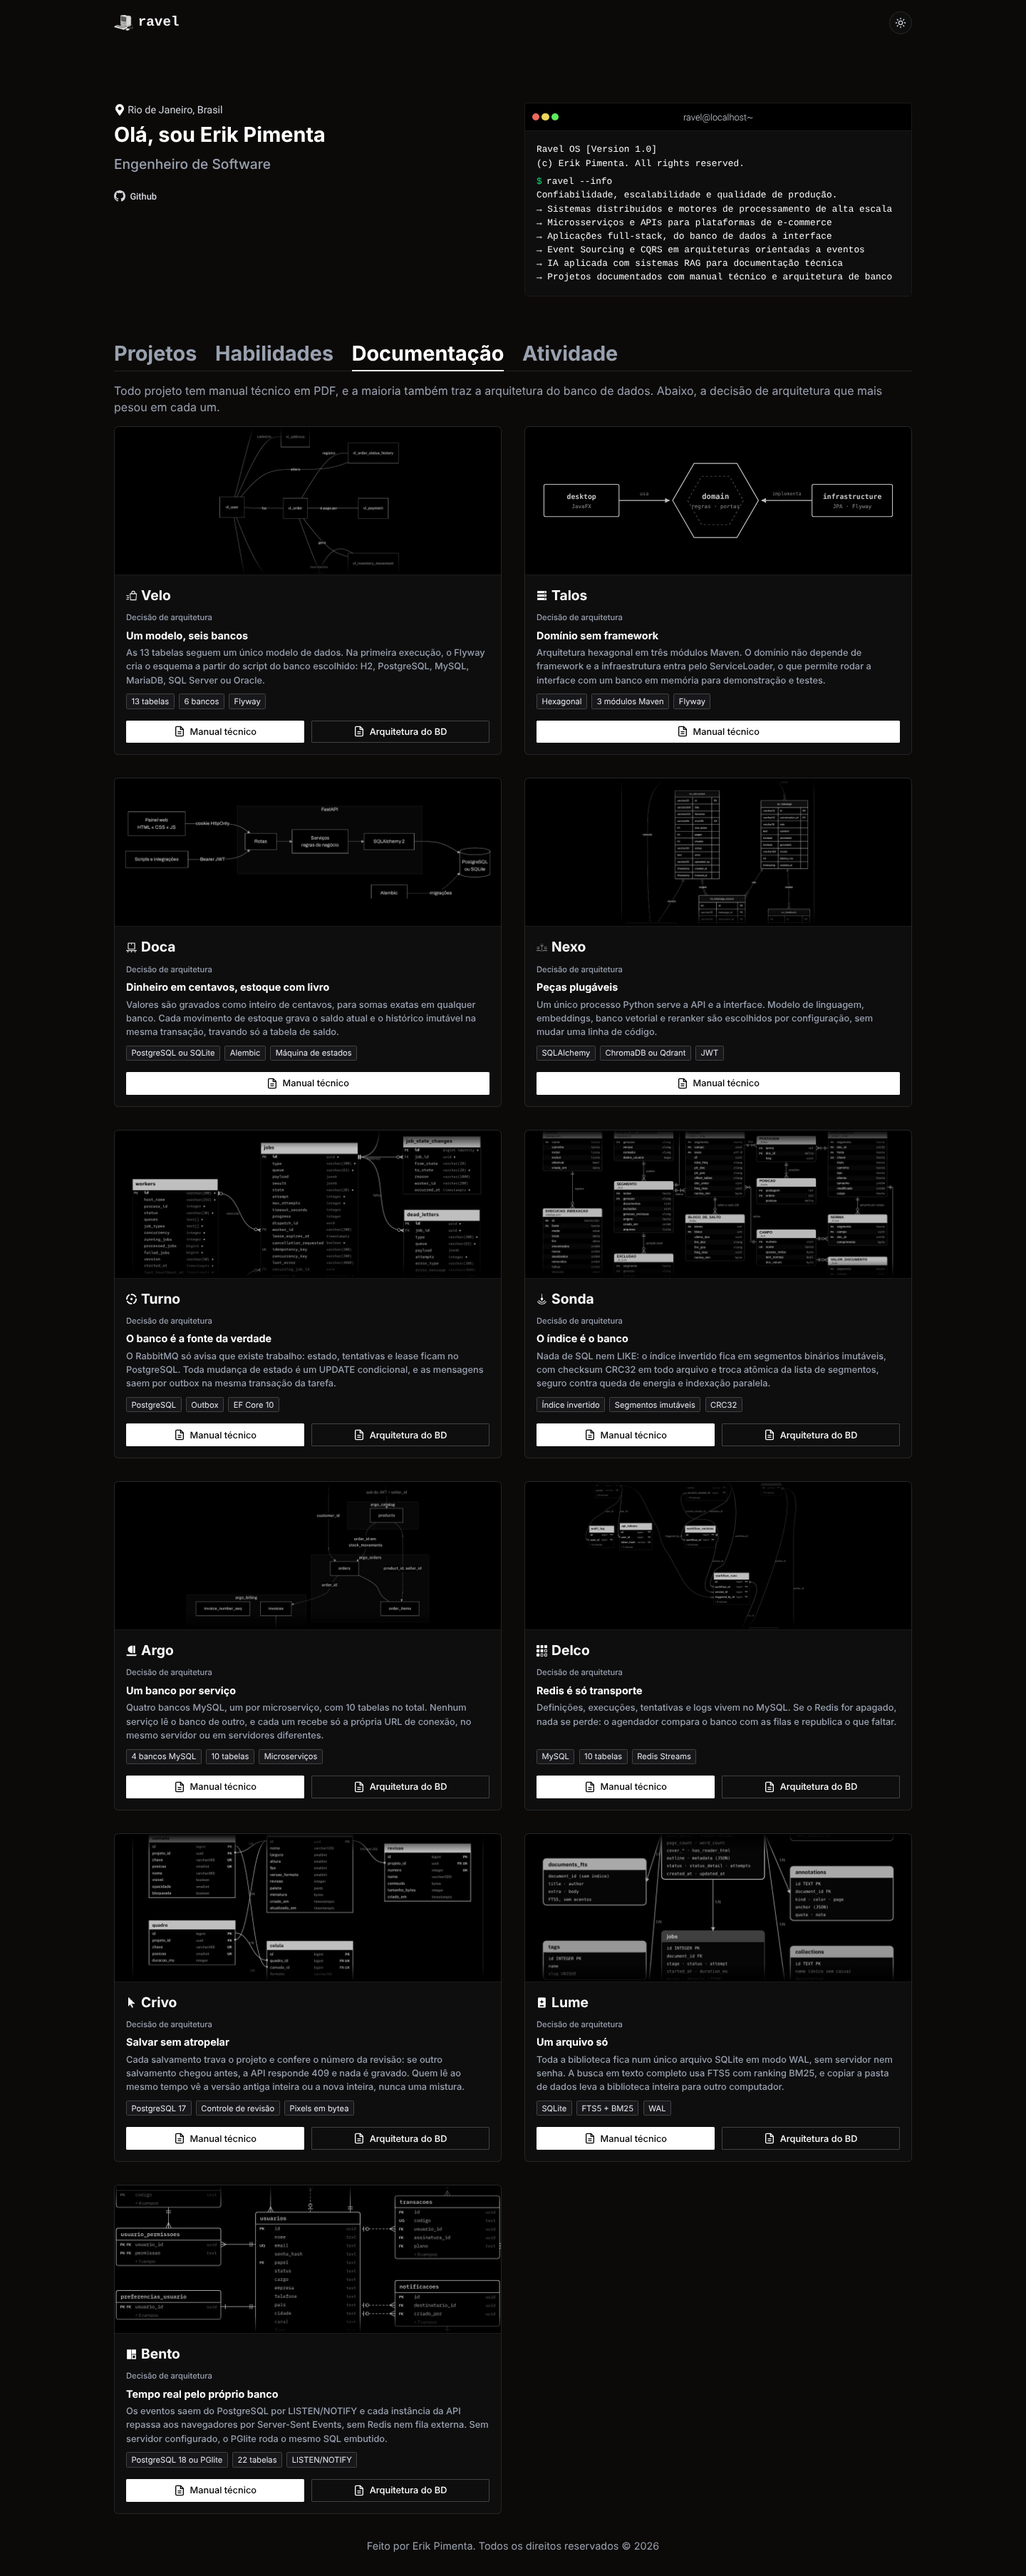
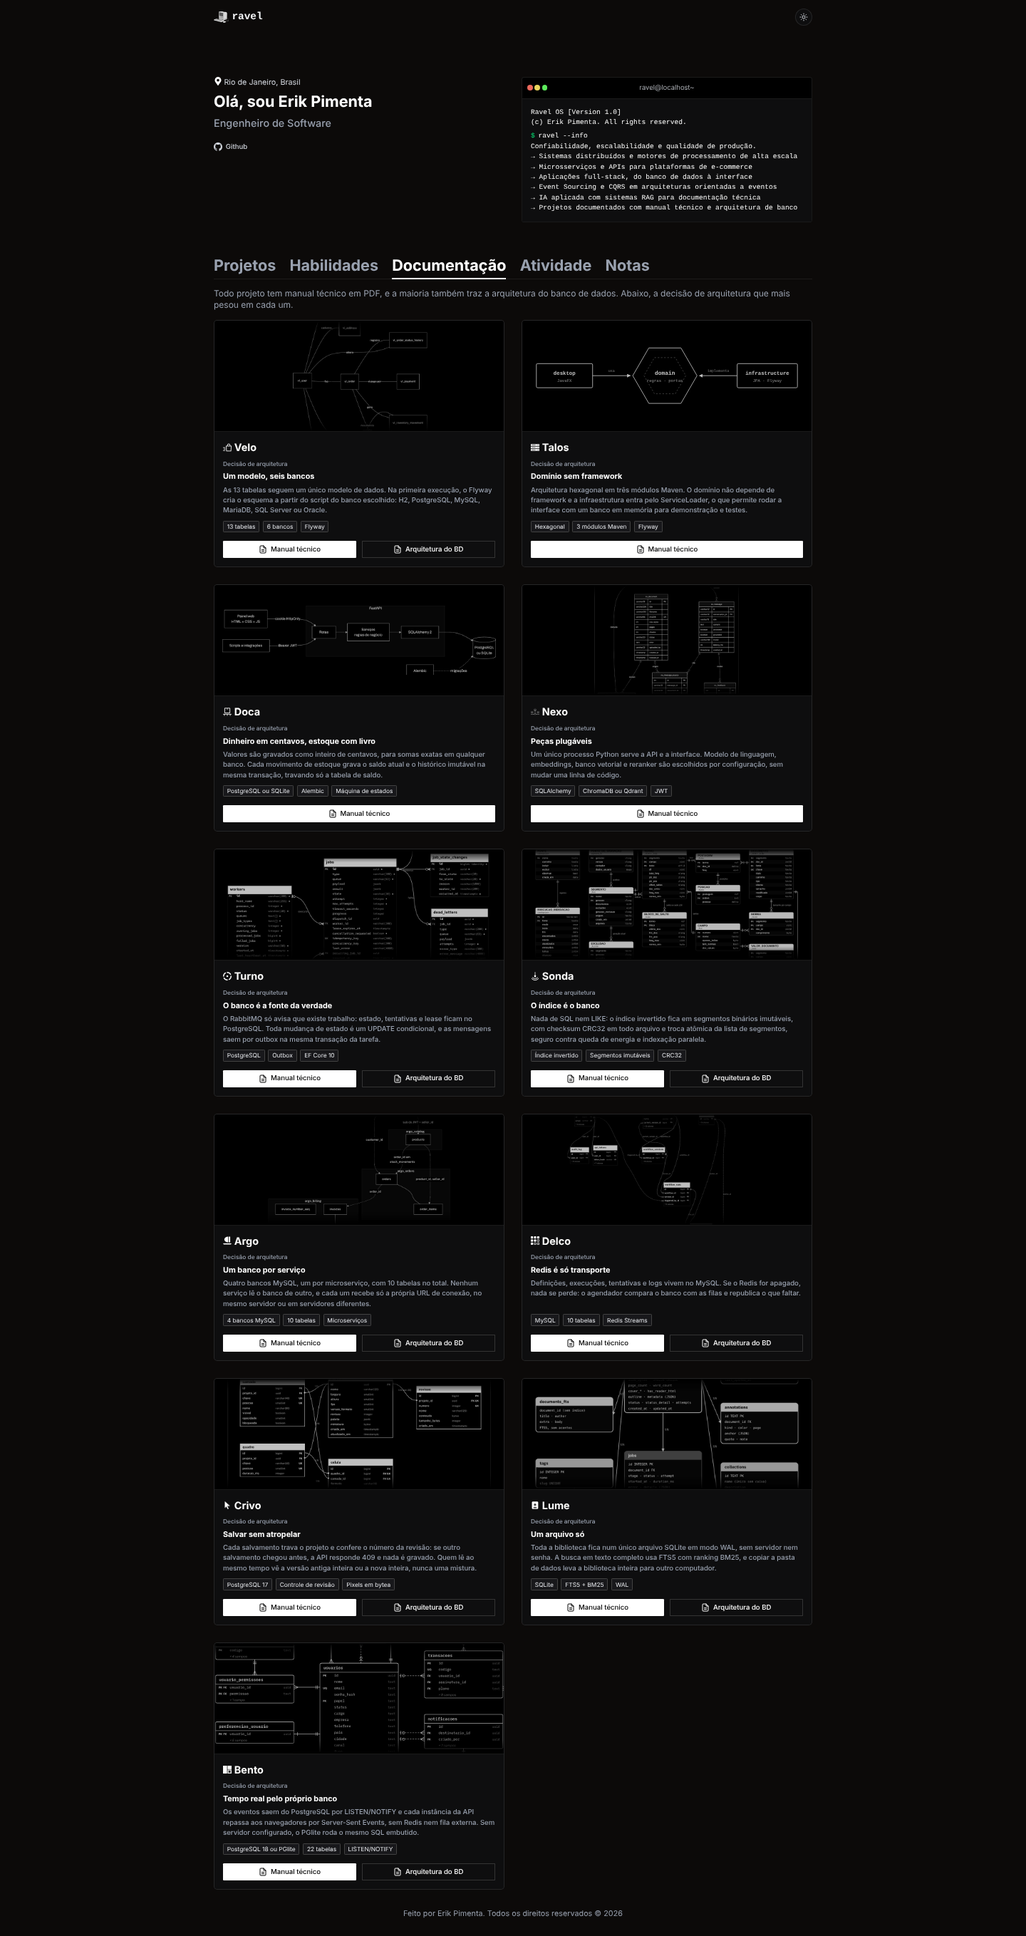
Descrições e ícones dos projetos atualizados

diff --git a/js/projetos.js b/js/projetos.js
@@ -2,77 +2,77 @@ const PROJETOS = [
 	{
 		titulo: "Velo",
 		icone: "assets/projetos/velo.png?v=3",
-		descricao: "Loja virtual completa com catálogo, carrinho, cupons, pedidos e pagamentos por cartão, PIX e boleto (simulados ou Stripe), além de painel administrativo e gestão de usuários. Funciona com H2, PostgreSQL, MySQL, MariaDB, SQL Server e Oracle.",
+		descricao: "Loja virtual completa e de código aberto: catálogo, carrinho com cupons, checkout com cartão em até 10 vezes, PIX ou boleto (simulados ou Stripe), acompanhamento do pedido e painel com faturamento, estoque e três perfis de acesso. Um único esquema para H2, PostgreSQL, MySQL, MariaDB, SQL Server e Oracle.",
 		link: "https://github.com/ravelroot/Payment-and-Checkout-System",
 		tecnologias: ["Java", "Spring Boot", "React", "Typescript", "Flyway", "PostgreSQL", "Stripe"]
 	},
 	{
 		titulo: "Talos",
-		icone: "assets/projetos/talos.png",
-		descricao: "Sistema desktop de ITSM, helpdesk e inventário de ativos inspirado no GLPI: chamados, problemas, mudanças, SLA, regras de negócio, Kanban e Gantt. Arquitetura hexagonal, banco de dados à escolha e instalador para Windows.",
+		icone: "assets/projetos/talos.png?v=2",
+		descricao: "Aplicativo desktop para Windows de gestão de serviços de TI, central de suporte e inventário de ativos, inspirado no GLPI: chamados com SLA, problemas e mudanças (ITIL), Kanban, Gantt e base de conhecimento. Instalador próprio e banco à escolha, do H2 local ao PostgreSQL ou Oracle.",
 		link: "https://github.com/ravelroot/Information-Technology-Service-Management",
 		tecnologias: ["Java", "Spring Boot", "JavaFX", "JPA", "Flyway", "PostgreSQL"]
 	},
 	{
 		titulo: "Doca",
 		icone: "assets/projetos/doca.png",
-		descricao: "Gestão de pedidos, compras e estoque multi-depósito com reserva transacional sem venda dupla, custo médio ponderado, curva ABC, giro e sugestão de reposição. Painel web com perfis de acesso, auditoria e integração contínua.",
+		descricao: "Pedidos de venda, compras e estoque multi-depósito com API REST e painel web com login. O estoque é reservado na confirmação e nenhum pedido vende acima do saldo, mesmo com acessos simultâneos. Custo médio ponderado, curva ABC, giro, sugestão de compra, quatro perfis de acesso e auditoria.",
 		link: "https://github.com/ravelroot/Order-and-Inventory-System",
-		tecnologias: ["Python", "FastAPI", "SQLAlchemy", "PostgreSQL", "Docker", "Javascript"]
+		tecnologias: ["Python", "FastAPI", "SQLAlchemy", "Alembic", "PostgreSQL", "Docker", "Javascript"]
 	},
 	{
 		titulo: "Nexo",
 		icone: "assets/projetos/nexo.png",
-		descricao: "Chatbot RAG para manuais técnicos e livros em PDF que responde somente com base nos documentos enviados, citando trecho e página, com reranking e cortes de relevância contra alucinações.",
+		descricao: "Chatbot RAG que responde dúvidas sobre manuais técnicos e livros em PDF usando só o conteúdo enviado. Cada resposta cita o trecho e a página e, se a informação não estiver nos documentos, ele diz que não encontrou, com reranking e dois cortes de relevância contra alucinações.",
 		link: "https://github.com/ravelroot/Retrieval-Augmented-QA-System",
 		tecnologias: ["Python", "FastAPI", "LlamaIndex", "React", "Typescript", "ChromaDB", "Qdrant"]
 	},
 	{
 		titulo: "Turno",
 		icone: "assets/projetos/turno.png",
-		descricao: "Motor de agendamento e processamento de tarefas distribuídas no estilo Hangfire: vários workers dividem a mesma fila com execução única garantida por Redlock e lease no PostgreSQL, retentativas com Polly, fila de erros, agendamento cron e painel em tempo real.",
+		descricao: "Motor de tarefas distribuídas no estilo Hangfire: vários workers idênticos dividem a mesma fila e cada tarefa roda uma única vez por tentativa, mesmo com mensagens duplicadas ou workers que caem. Redlock e lease no PostgreSQL, Polly, fila de erros, cron e painel em tempo real.",
 		link: "https://github.com/ravelroot/Distributed-Task-Processing-Engine",
 		tecnologias: ["C#", ".NET 10", "MassTransit", "RabbitMQ", "Redis", "PostgreSQL", "Blazor", "Docker"]
 	},
 	{
 		titulo: "Sonda",
 		icone: "assets/projetos/sonda.png",
-		descricao: "Motor de busca de texto completo escrito do zero, no estilo Lucene: indexação paralela, stemming em português e inglês, índice invertido binário em disco e ranking por BM25 ou TF-IDF, com painel web, API REST e linha de comando.",
+		descricao: "Motor de busca de texto completo escrito do zero em C#, no estilo Lucene e Elasticsearch, que indexa pastas inteiras de .txt, .md e .html em paralelo: stemming em português e inglês, índice invertido binário em disco e ranking por BM25 ou TF-IDF, sem banco SQL. Painel web, API REST e linha de comando.",
 		link: "https://github.com/ravelroot/Inverted-Index-Search-Engine",
 		tecnologias: ["C#", ".NET 10", "ASP.NET Core", "TPL", "Brotli", "xUnit", "Docker"]
 	},
 	{
 		titulo: "Argo",
 		icone: "assets/projetos/argo.png?v=2",
-		descricao: "Plataforma de microserviços para vendas com vários vendedores, feita em Django: estoque atualizado em tempo real por Redis e Server-Sent Events, checkout assíncrono que confirma o pedido por fila no Celery e notas fiscais emitidas por um serviço em Java, tudo atrás de um gateway Nginx.",
+		descricao: "Plataforma de microserviços para vendas em Django: vários vendedores cadastram produtos, o estoque muda em tempo real por Redis e Server-Sent Events e cada pedido é confirmado por uma fila no Celery, sem travar a compra. As notas fiscais saem de um serviço em Java, tudo atrás de um gateway Nginx.",
 		link: "https://github.com/ravelroot/E-commerce-Microservices-Platform",
 		tecnologias: ["Python", "Django", "Celery", "Redis", "MySQL", "Java", "Spring Boot", "Docker"]
 	},
 	{
 		titulo: "Delco",
 		icone: "assets/projetos/delco.png",
-		descricao: "Motor de orquestração de workflows no estilo Airflow e Temporal, feito em Django: pipelines em Python viram grafos de tarefas com agendamento cron, um pool de workers consome a fila no Redis e, se um servidor cair no meio, a execução retoma do passo exato onde parou, com painel em tempo real pelo Django Channels.",
+		descricao: "Motor de orquestração de workflows no estilo Airflow e Temporal, feito em Django: você escreve o pipeline em Python e o Delco agenda por cron, distribui as tarefas entre workers pela fila no Redis, repete o que falhar e, se um servidor cair no meio, continua do passo exato onde parou, com painel em tempo real.",
 		link: "https://github.com/ravelroot/Workflow-Orchestration-Engine",
 		tecnologias: ["Python", "Django", "Django REST", "Channels", "MySQL", "Redis", "Docker"]
 	},
 	{
 		titulo: "Crivo",
 		icone: "assets/projetos/crivo.png",
-		descricao: "Editor de pixel art no navegador que trata a imagem como uma matriz de pixels RGBA: lápis, balde, formas, camadas, animação quadro a quadro, simetria e paletas clássicas, com exportação em PNG, sprite sheet ou a própria matriz em JSON, CSV, Python, C e Java.",
+		descricao: "Editor de pixel art no navegador que trata a imagem como ela é, uma matriz de pixels RGBA: lápis, balde, linhas e formas, camadas, animação quadro a quadro, simetria e paletas clássicas, com exportação em PNG, sprite sheet ou a própria matriz em JSON, CSV, JavaScript, Python, C e Java.",
 		link: "https://github.com/ravelroot/Pixel-Art-Matrix-Editor",
 		tecnologias: ["Javascript", "Canvas 2D", "Python", "Django", "PostgreSQL", "Java", "Docker"]
 	},
 	{
 		titulo: "Lume",
 		icone: "assets/projetos/lume.png",
-		descricao: "Biblioteca de PDFs e DOCX para Windows em um único executável: gera as capas, escreve a descrição de cada documento com IA, faz busca no texto inteiro e abre tudo num leitor próprio com destaques, notas e progresso salvo.",
+		descricao: "Biblioteca de PDFs e DOCX que roda inteira no computador, num único Lume.exe sem instalador, servidor ou conta: gera as capas, escreve a descrição de cada documento com IA, busca no texto inteiro e abre tudo num leitor próprio que lembra onde você parou, com destaques e notas.",
 		link: "https://github.com/ravelroot/Document-Library-Desktop",
 		tecnologias: ["Java", "Spring Boot", "SQLite", "PDFBox", "pdf.js", "Javascript", "Playwright"]
 	},
 	{
 		titulo: "Bento",
-		icone: "assets/projetos/bento.png",
-		descricao: "Painel administrativo para SaaS em bento grid: receita, MRR, usuários e assinaturas em blocos, com modo escuro, gráficos interativos, tabelas com busca e paginação, notificações em tempo real e relatórios em CSV e PDF, sobre uma API com permissões por papel.",
+		icone: "assets/projetos/bento.png?v=2",
+		descricao: "Painel administrativo para SaaS em bento grid: receita, MRR, usuários e assinaturas em blocos, com modo escuro nativo, gráficos interativos, tabelas com ordenação, busca e paginação, gavetas laterais, notificações em tempo real e relatórios em CSV e PDF, sobre uma API completa com permissões por papel.",
 		link: "https://github.com/ravelroot/Data-Driven-Admin-Panel",
 		tecnologias: ["Typescript", "Tailwind CSS", "Node.js", "Fastify", "PostgreSQL", "ApexCharts", "Docker"]
 	}

diff --git a/index.html b/index.html
@@ -132,7 +132,7 @@
 		</footer>
 	</div>
 
-	<script src="js/projetos.js?v=13"></script>
+	<script src="js/projetos.js?v=14"></script>
 	<script src="js/habilidades.js?v=4"></script>
 	<script src="js/documentacao.js?v=3"></script>
 	<script src="js/atividade.js?v=4"></script>

diff --git a/README.md b/README.md
@@ -20,7 +20,7 @@ HTML5 · CSS3 · JavaScript (ES6+) · API do GitHub · Responsivo · Zero depend
 ---
 
 <p align="center">
-  <img src="assets/preview-portfolio.png?v=13" alt="Prévia do portfólio">
+  <img src="assets/preview-portfolio.png?v=14" alt="Prévia do portfólio">
 </p>
 
 <p align="center"><b>Tema claro, na aba Habilidades</b></p>
@@ -32,7 +32,7 @@ HTML5 · CSS3 · JavaScript (ES6+) · API do GitHub · Responsivo · Zero depend
 <p align="center"><b>Aba Documentação</b></p>
 
 <p align="center">
-  <img src="assets/preview-portfolio-documentacao.png?v=3" alt="Prévia da aba Documentação, com o diagrama do banco e os PDFs de cada projeto">
+  <img src="assets/preview-portfolio-documentacao.png?v=4" alt="Prévia da aba Documentação, com o diagrama do banco e os PDFs de cada projeto">
 </p>
 
 <p align="center"><b>Aba Atividade</b></p>
@@ -80,17 +80,17 @@ HTML5 · CSS3 · JavaScript (ES6+) · API do GitHub · Responsivo · Zero depend
 
 | Projeto | O que é | Tecnologias |
 | --- | --- | --- |
-| [**Velo**](https://github.com/ravelroot/Payment-and-Checkout-System) | Loja virtual completa com catálogo, carrinho, cupons, pedidos e pagamentos por cartão, PIX e boleto (simulados ou Stripe), com painel administrativo. | Java 21 · Spring Boot 4 · React 19 · TypeScript · Flyway · 6 bancos de dados |
-| [**Talos**](https://github.com/ravelroot/Information-Technology-Service-Management) | Sistema desktop de ITSM, helpdesk e inventário de ativos inspirado no GLPI: chamados, problemas, mudanças, SLA, Kanban e Gantt. | Java 21 · Spring Boot · JPA · Flyway · JavaFX · Arquitetura hexagonal |
-| [**Doca**](https://github.com/ravelroot/Order-and-Inventory-System) | Gestão de pedidos, compras e estoque multi-depósito com reserva transacional sem venda dupla, custo médio ponderado e curva ABC. | Python · FastAPI · SQLAlchemy 2 · PostgreSQL · Docker · GitHub Actions |
-| [**Nexo**](https://github.com/ravelroot/Retrieval-Augmented-QA-System) | Chatbot RAG para manuais técnicos e livros em PDF que responde só com base nos documentos, citando trecho e página. | Python · FastAPI · LlamaIndex · ChromaDB/Qdrant · Ollama/OpenAI · React |
-| [**Turno**](https://github.com/ravelroot/Distributed-Task-Processing-Engine) | Motor de agendamento e processamento de tarefas distribuídas no estilo Hangfire, com execução única garantida, retentativas, fila de erros, cron e painel em tempo real. | C# · .NET 10 · MassTransit · RabbitMQ · Redis (Redlock) · PostgreSQL · Blazor · Docker |
-| [**Sonda**](https://github.com/ravelroot/Inverted-Index-Search-Engine) | Motor de busca de texto completo escrito do zero, no estilo Lucene, com índice invertido em disco e ranking por BM25 ou TF-IDF. | C# · .NET 10 · ASP.NET Core · Task Parallel Library · Brotli · xUnit · Docker |
-| [**Argo**](https://github.com/ravelroot/E-commerce-Microservices-Platform) | Plataforma de microserviços para vendas com vários vendedores, feita em Django: estoque em tempo real, checkout assíncrono por fila e notas fiscais emitidas por um serviço em Java. | Python 3.13 · Django 6 · Django REST Framework · Celery · Redis · MySQL · Java 21 · Spring Boot 4 · Nginx · Docker |
-| [**Delco**](https://github.com/ravelroot/Workflow-Orchestration-Engine) | Motor de orquestração de workflows no estilo Airflow e Temporal, feito em Django: pipelines em Python, pool de workers em fila e retomada do passo exato após uma queda, com painel em tempo real. | Python 3.13 · Django 6 · Django REST Framework · Channels · MySQL · Redis Streams · Docker |
-| [**Crivo**](https://github.com/ravelroot/Pixel-Art-Matrix-Editor) | Editor de pixel art no navegador que trata a imagem como uma matriz de pixels RGBA, com camadas, animação, paletas e exportação da matriz em JSON, CSV, Python, C e Java. | JavaScript · Canvas 2D · Python 3.13 · Django 6.1 · PostgreSQL 17 · Java 21 · Docker |
-| [**Lume**](https://github.com/ravelroot/Document-Library-Desktop) | Biblioteca de PDFs e DOCX para Windows em um único executável, com capas automáticas, descrição por IA, busca no texto inteiro e leitor próprio. | Java 21 · Spring Boot 4 · SQLite + FTS5 · Apache PDFBox · pdf.js · Playwright |
-| [**Bento**](https://github.com/ravelroot/Data-Driven-Admin-Panel) | Painel administrativo para SaaS em bento grid, com modo escuro, gráficos, tabelas, notificações em tempo real e relatórios em CSV e PDF, sobre uma API com permissões por papel. | TypeScript · Tailwind CSS 4 · Node.js 22 · Fastify 5 · PostgreSQL 18 ou PGlite · ApexCharts · Docker |
+| [**Velo**](https://github.com/ravelroot/Payment-and-Checkout-System) | Loja virtual completa e de código aberto: catálogo, carrinho com cupons, checkout com cartão, PIX ou boleto (simulados ou Stripe), acompanhamento do pedido e painel com faturamento, estoque e três perfis de acesso. | Java 21 · Spring Boot 4 · React 19 · TypeScript · Flyway · 6 bancos de dados |
+| [**Talos**](https://github.com/ravelroot/Information-Technology-Service-Management) | Aplicativo desktop para Windows de gestão de serviços de TI, central de suporte e inventário de ativos, inspirado no GLPI: chamados com SLA, problemas e mudanças (ITIL), Kanban, Gantt e base de conhecimento. | Java 21 · Spring Boot 4 · JavaFX 21 · JPA · Flyway · Arquitetura hexagonal · 6 bancos de dados |
+| [**Doca**](https://github.com/ravelroot/Order-and-Inventory-System) | Pedidos de venda, compras e estoque multi-depósito com API REST e painel web: reserva na confirmação sem venda dupla, mesmo com acessos simultâneos, custo médio ponderado e curva ABC. | Python · FastAPI · SQLAlchemy 2 · Alembic · PostgreSQL ou SQLite · Docker · GitHub Actions |
+| [**Nexo**](https://github.com/ravelroot/Retrieval-Augmented-QA-System) | Chatbot RAG para manuais técnicos e livros em PDF que responde só com base nos documentos, citando trecho e página, e diz quando não encontrou a informação. | Python · FastAPI · LlamaIndex · ChromaDB/Qdrant · Ollama/OpenAI · React 19 · TypeScript |
+| [**Turno**](https://github.com/ravelroot/Distributed-Task-Processing-Engine) | Motor de tarefas distribuídas no estilo Hangfire: vários workers dividem a mesma fila e cada tarefa roda uma única vez por tentativa, com retentativas, fila de erros, cron e painel em tempo real. | C# · .NET 10 · MassTransit · RabbitMQ ou Azure Service Bus · Redis (Redlock) · PostgreSQL · Blazor · Docker |
+| [**Sonda**](https://github.com/ravelroot/Inverted-Index-Search-Engine) | Motor de busca de texto completo escrito do zero em C#, no estilo Lucene e Elasticsearch, com indexação paralela, índice invertido binário em disco e ranking por BM25 ou TF-IDF, sem banco SQL. | C# · .NET 10 · ASP.NET Core · Task Parallel Library · Brotli · xUnit · Docker |
+| [**Argo**](https://github.com/ravelroot/E-commerce-Microservices-Platform) | Plataforma de microserviços para vendas com vários vendedores, em Django: estoque em tempo real, pedidos confirmados por fila sem travar a compra e notas fiscais emitidas por um serviço em Java. | Python 3.13 · Django 6 · Django REST Framework · Celery · Redis · MySQL · Java 21 · Spring Boot 4 · Nginx · Docker |
+| [**Delco**](https://github.com/ravelroot/Workflow-Orchestration-Engine) | Motor de orquestração de workflows no estilo Airflow e Temporal, em Django: pipelines em Python, agenda cron, pool de workers em fila e retomada do passo exato após uma queda, com painel em tempo real. | Python 3.13 · Django 6 · Django REST Framework · Channels · MySQL · Redis Streams · Docker |
+| [**Crivo**](https://github.com/ravelroot/Pixel-Art-Matrix-Editor) | Editor de pixel art no navegador que trata a imagem como uma matriz de pixels RGBA, com camadas, animação, paletas e exportação da matriz em JSON, CSV, JavaScript, Python, C e Java. | JavaScript · Canvas 2D · Python 3.13 · Django 6.1 · PostgreSQL 17 · Java 21 · Docker |
+| [**Lume**](https://github.com/ravelroot/Document-Library-Desktop) | Biblioteca de PDFs e DOCX que roda inteira no computador, num único Lume.exe sem instalador, servidor ou conta, com capas automáticas, descrição por IA, busca no texto inteiro e leitor próprio. | Java 21 · Spring Boot 4 · SQLite + FTS5 · Apache PDFBox · pdf.js · Playwright |
+| [**Bento**](https://github.com/ravelroot/Data-Driven-Admin-Panel) | Painel administrativo para SaaS em bento grid, com modo escuro nativo, gráficos interativos, tabelas, gavetas laterais, notificações em tempo real e relatórios em CSV e PDF, sobre uma API com permissões por papel. | TypeScript · Tailwind CSS 4 · Node.js 22 · Fastify 5 · PostgreSQL 18 ou PGlite · ApexCharts · Docker |
 
 ## Como rodar
 
